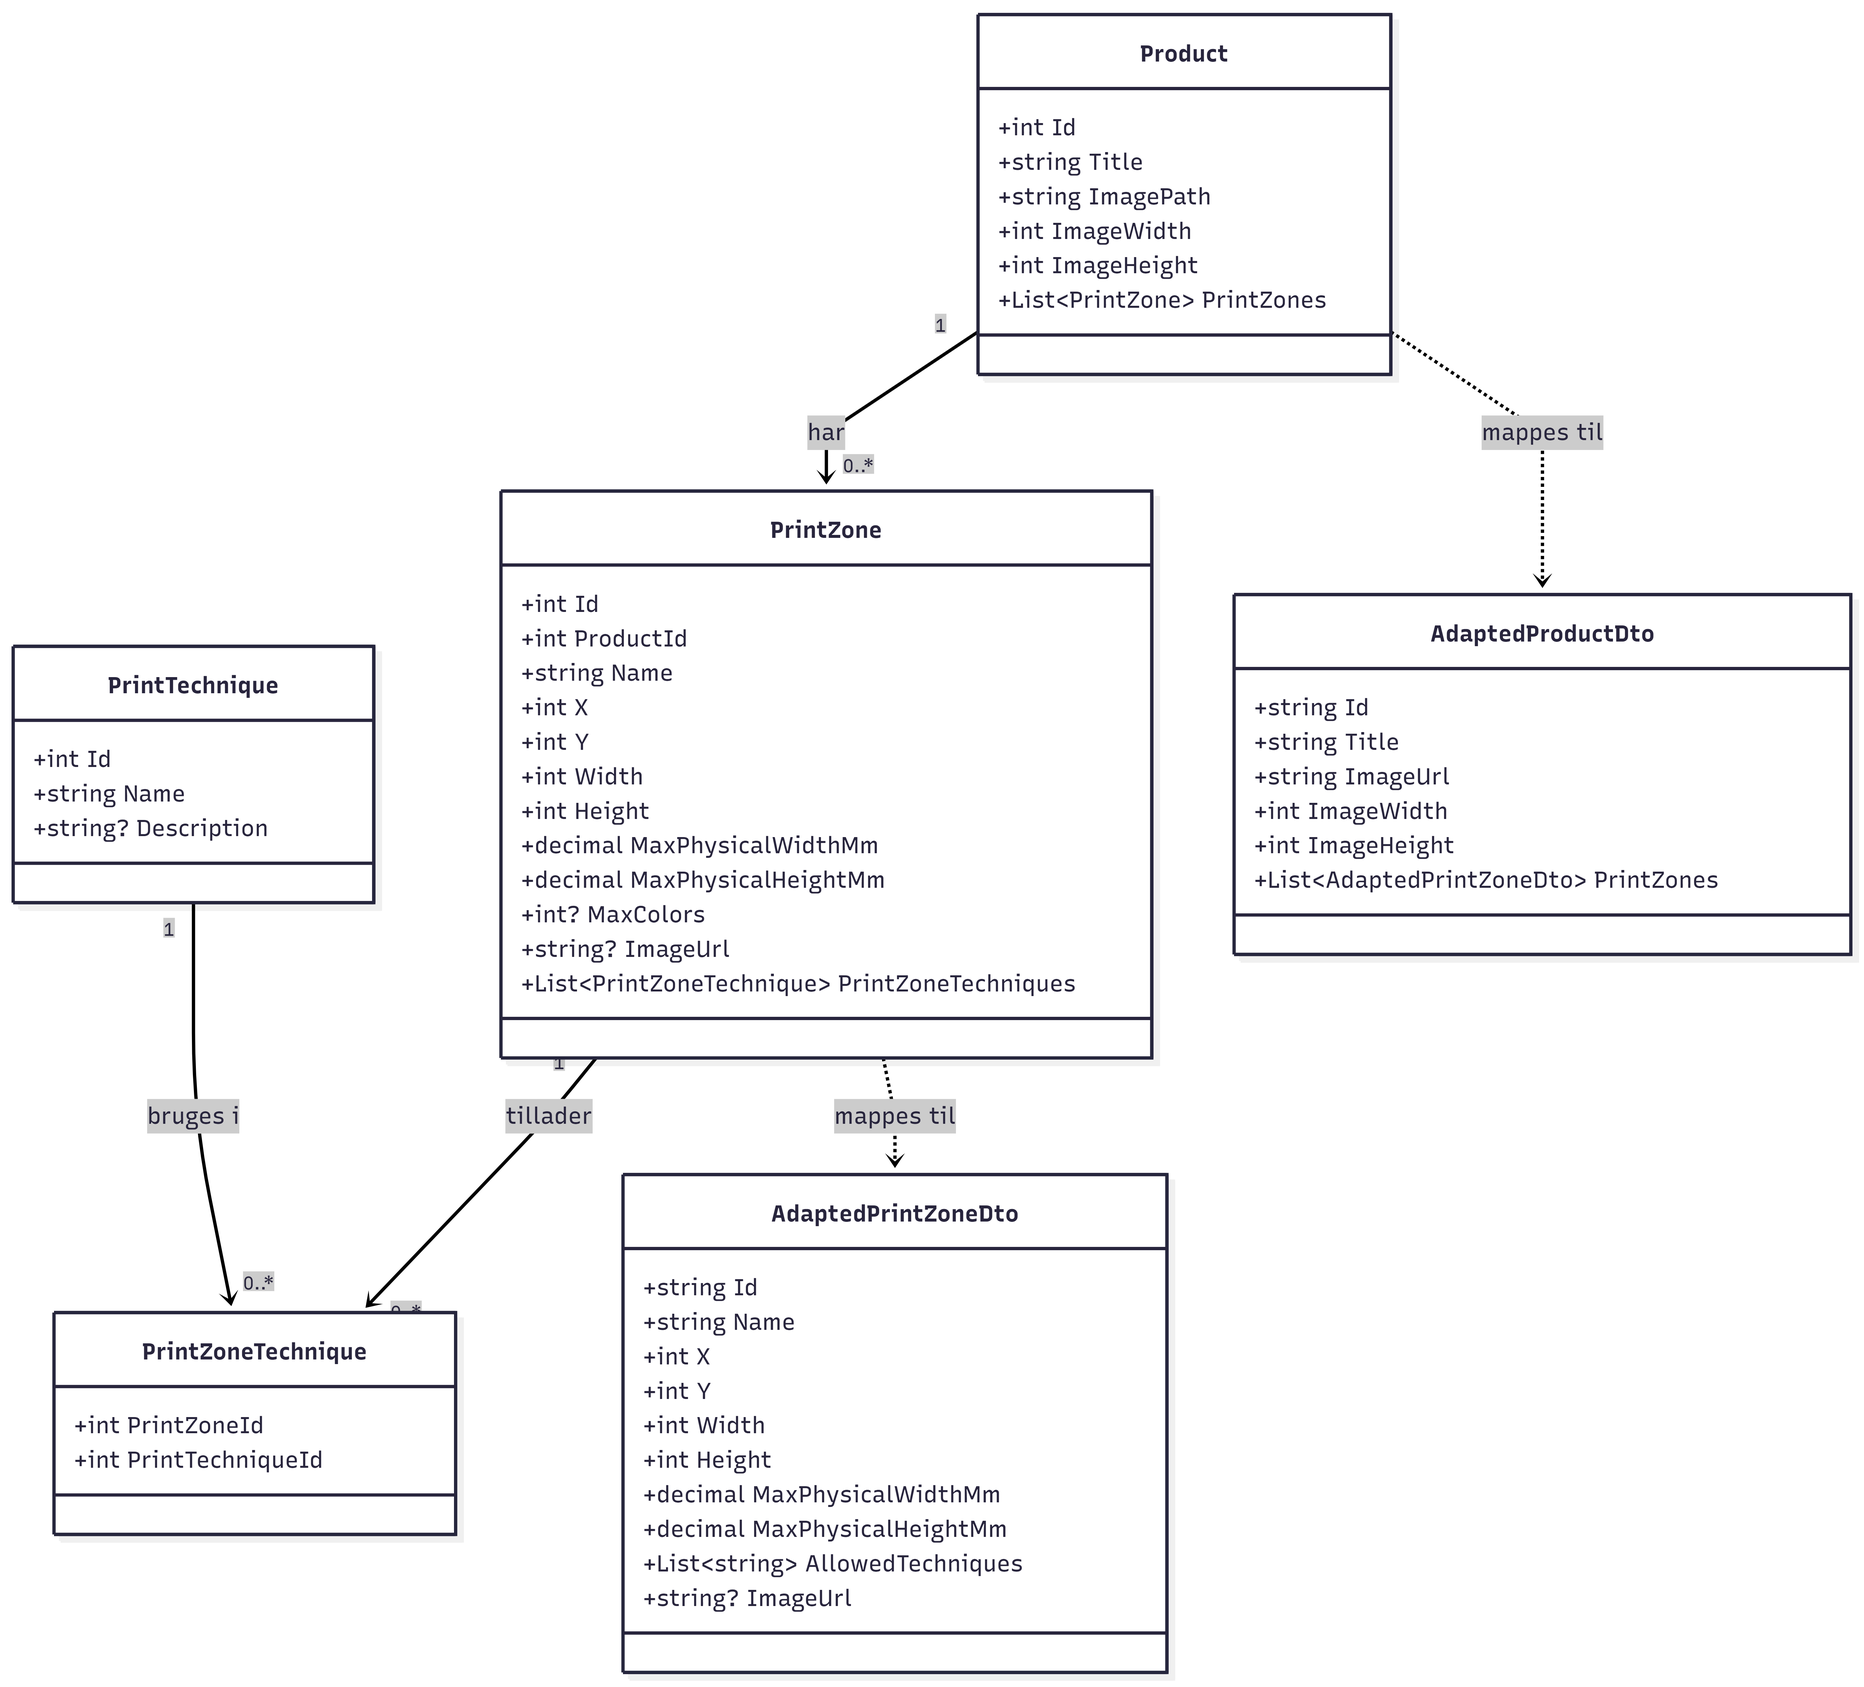
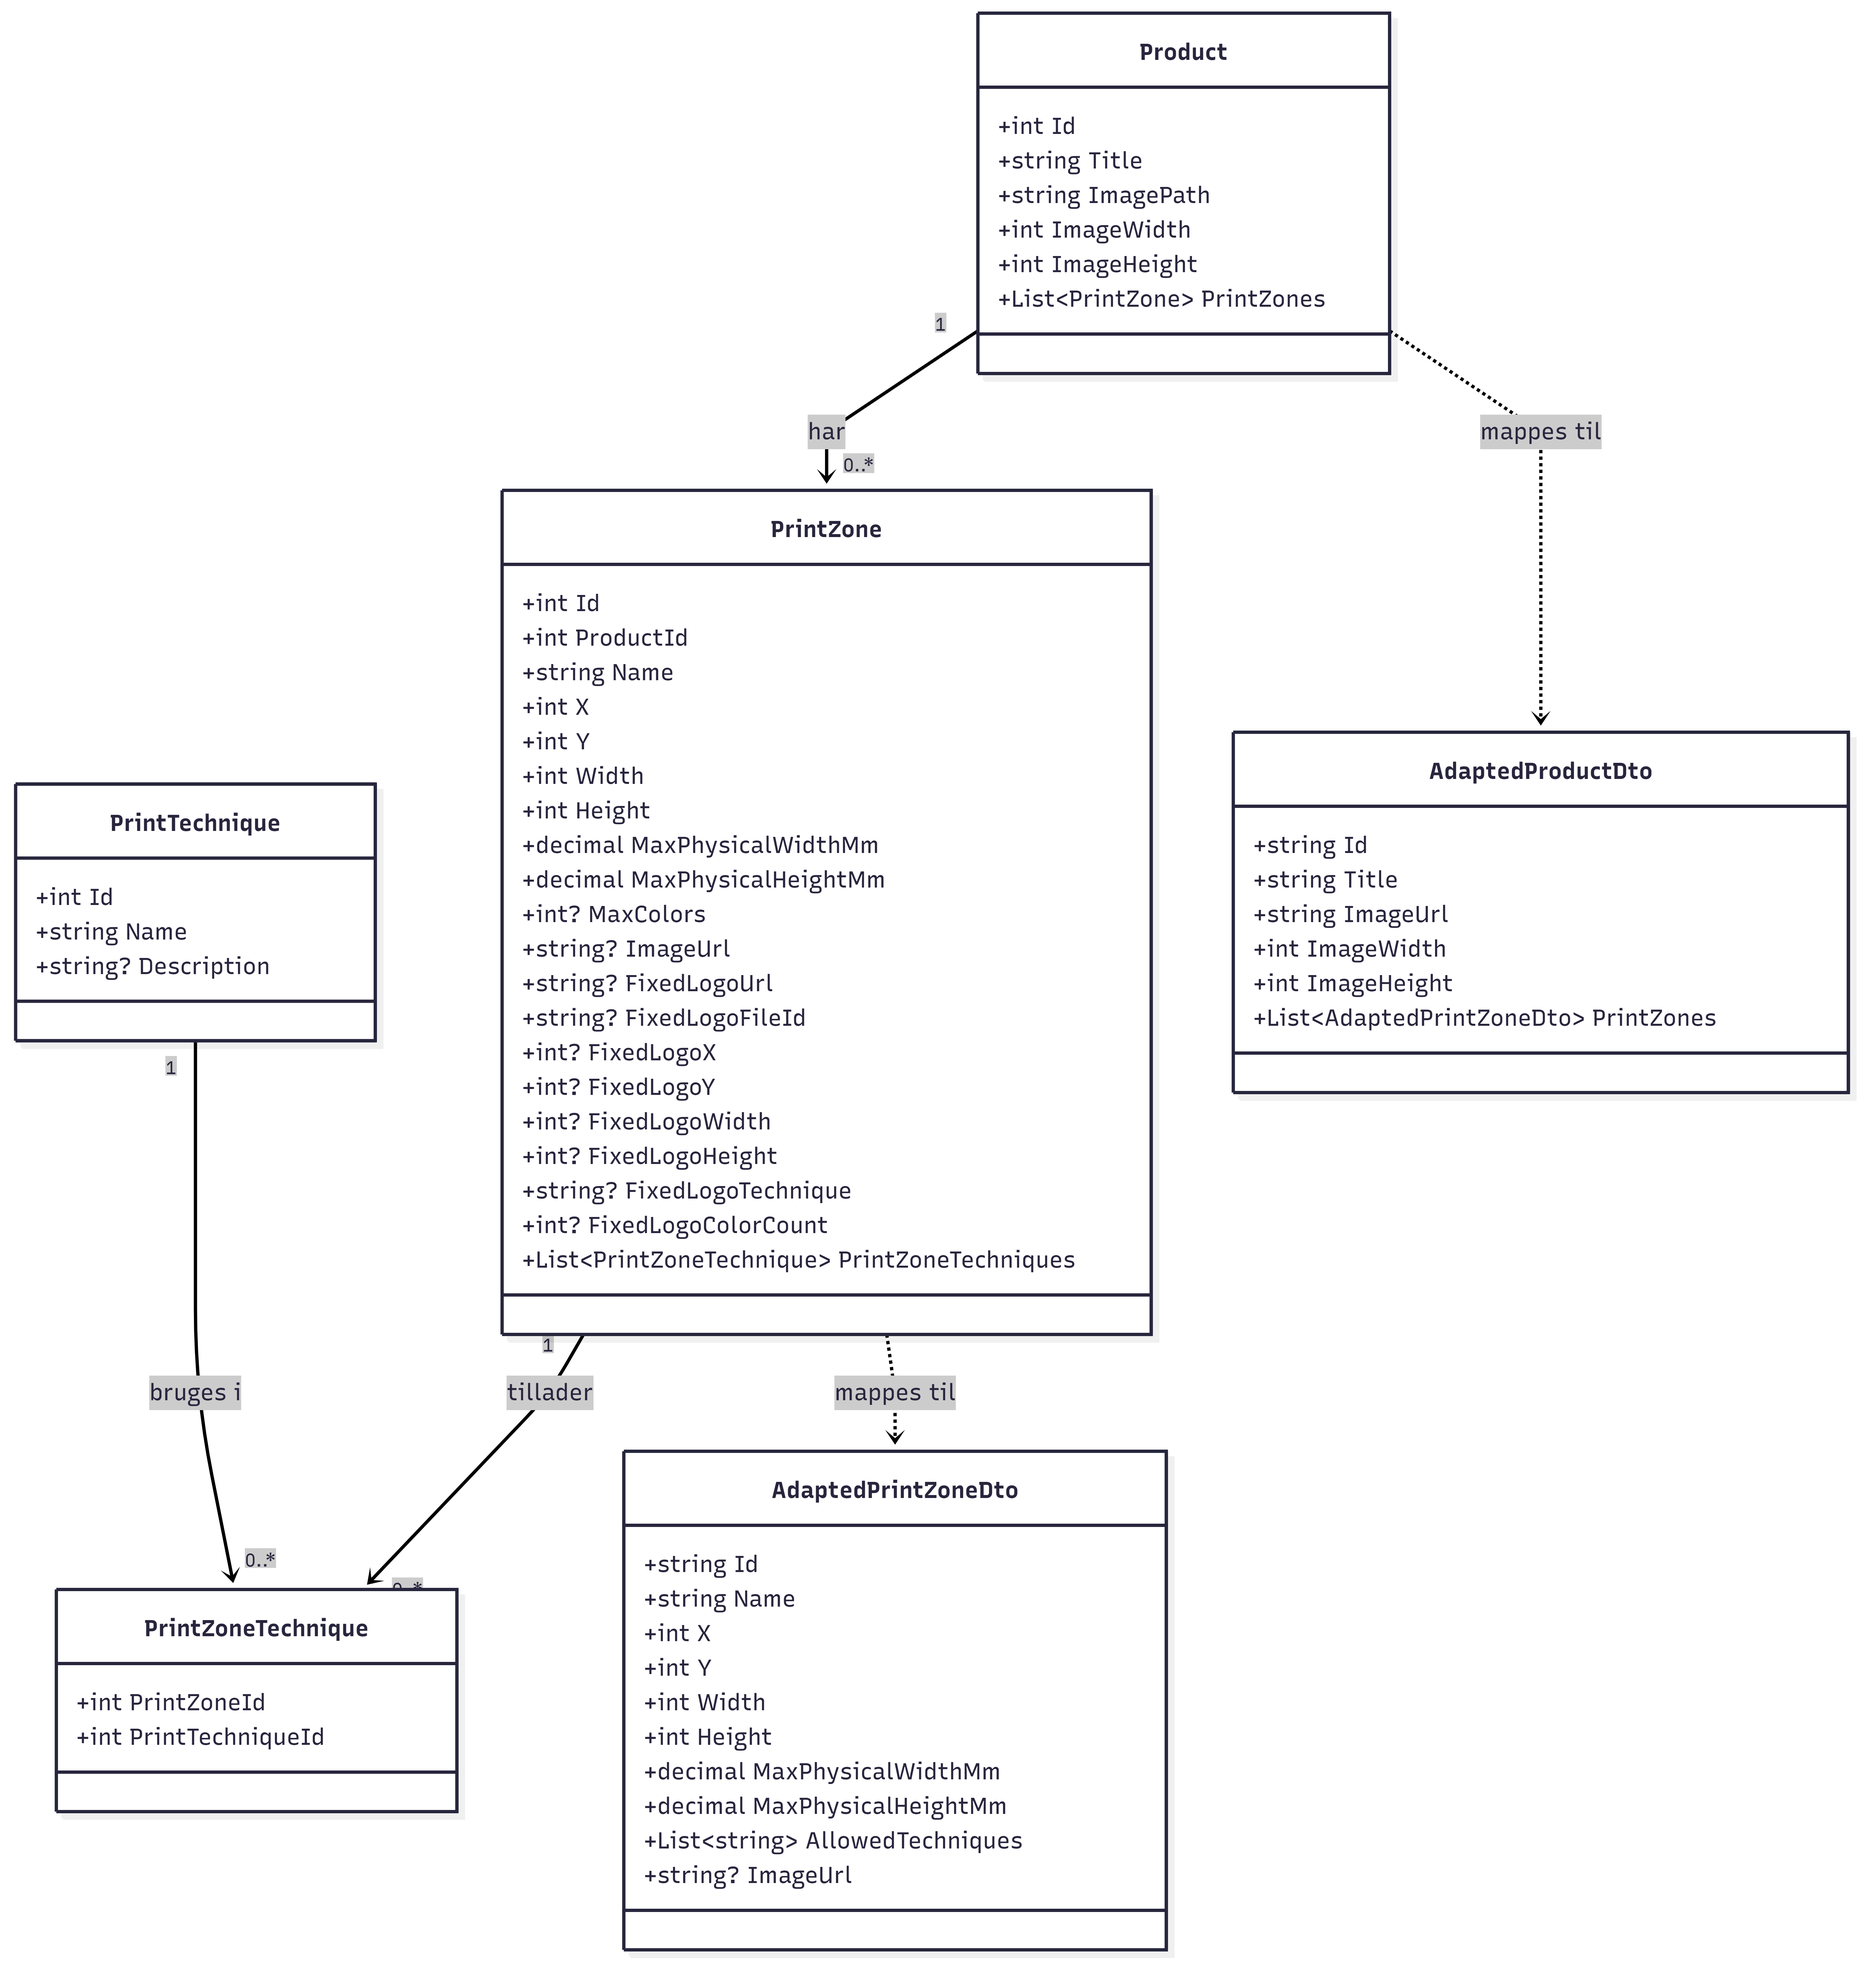
documatio update

diff --git a/CLAUDE.md b/CLAUDE.md
@@ -182,12 +182,12 @@ After **any** change to this project, keep the following two documents accurate 
 | `docker-compose.yml` | Starts `mssql` (SQL Server 2022) and `seeder` (one-shot migration + seed container) |
 | `Dockerfile` | Multi-stage build for the API; also used by the seeder service. All three `.csproj` files (`Api`, `Data`, `Tests/unit_test`) must be copied before `dotnet restore` to avoid a missing-project error during `docker compose build`. |
 | `LogoVisualizer.Data/AppDbContext.cs` | EF model config, index constraints, technique seed data |
-| `LogoVisualizer.Data/Repositories/` | `IProductRepository`, `IPrintZoneRepository` + implementations |
+| `LogoVisualizer.Data/Repositories/` | `IProductRepository` (`GetAllAsync`, `GetByIdWithZonesAsync`, `CreateAsync`, `DeleteAsync`, `ExistsAsync`) + `IPrintZoneRepository` + implementations |
 | `LogoVisualizer.Api/Controllers/AuthController.cs` | `POST /api/auth/dev-token` — issues dev JWT (Development only) |
 | `LogoVisualizer.Api/Controllers/MidoceanProductsController.cs` | Raw JSON endpoints; adapted endpoints delegate to `ProductDataService` (DB-first) |
 | `LogoVisualizer.Api/Controllers/PrintZonesController.cs` | Zone CRUD — accepts `AllowedTechniqueNames` (string names) resolved via `ResolveTechniquesAsync` |
 | `LogoVisualizer.Api/Controllers/ExportController.cs` | PNG and PDF export — uses frontend-supplied `LogoX/Y/Width/Height` directly (falls back to auto-fit only when size is 0); scales all coordinates from stored product dimensions to actual downloaded image dimensions; applies technique colour effects via `PrintTechniqueColorModeHelper` and colour-count quantisation via `ApplyColorCount`; PDF wraps per-page PNGs via QuestPDF |
-| `LogoVisualizer.Api/Helpers/PrintTechniqueColorModeHelper.cs` | Applies visual effects per technique slug: engraving→greyscale+contrast, screen_print→posterise+blur, pad_print→posterise+blur, embroidery→posterise+contrast, sublimation→contrast, digital_print→no effect. `PosterizeManual` mirrors the frontend's canvas quantisation formula |
+| `LogoVisualizer.Api/Helpers/PrintTechniqueColorModeHelper.cs` | Applies visual effects per technique slug: engraving→greyscale+contrast, screen_print→posterise+blur, pad_print→posterise+blur, embroidery→posterise+contrast, sublimation→contrast, digital_print→no effect. `PosterizeManual` mirrors the frontend's canvas quantisation formula. `ApplySafeBlur` clamps GaussianBlur sigma to fit the image dimensions so tiny logos (e.g. 1 px) never throw an out-of-range exception. |
 | `LogoVisualizer.Api/DTOs/UploadExportDtos.cs` | `ZonePlacement` (logoX/Y/Width/Height + `SelectedTechniqueName` + `ColorCount` + `MaxColors`), `TextPlacement`, `ExportPngRequest`, `MultiPagePdfExportRequest` |
 | `LogoVisualizer.Api/Controllers/LogoUploadController.cs` | Logo file upload; SVG sanitisation is a TODO |
 | `LogoVisualizer.Api/Services/ProductDataService.cs` | `IProductDataService` — queries DB, falls back to JSON on error/empty |

diff --git a/docs/class/class.md b/docs/class/class.md
@@ -25,6 +25,14 @@ classDiagram
         +decimal MaxPhysicalHeightMm
         +int? MaxColors
         +string? ImageUrl
+        +string? FixedLogoUrl
+        +string? FixedLogoFileId
+        +int? FixedLogoX
+        +int? FixedLogoY
+        +int? FixedLogoWidth
+        +int? FixedLogoHeight
+        +string? FixedLogoTechnique
+        +int? FixedLogoColorCount
         +List~PrintZoneTechnique~ PrintZoneTechniques
     }
 

diff --git a/docs/er/er.md b/docs/er/er.md
@@ -25,6 +25,14 @@ erDiagram
         decimal MaxPhysicalHeightMm
         int     MaxColors
         string  ImageUrl
+        string  FixedLogoUrl
+        string  FixedLogoFileId
+        int     FixedLogoX
+        int     FixedLogoY
+        int     FixedLogoWidth
+        int     FixedLogoHeight
+        string  FixedLogoTechnique
+        int     FixedLogoColorCount
     }
     PrintTechnique {
         int    Id    PK
